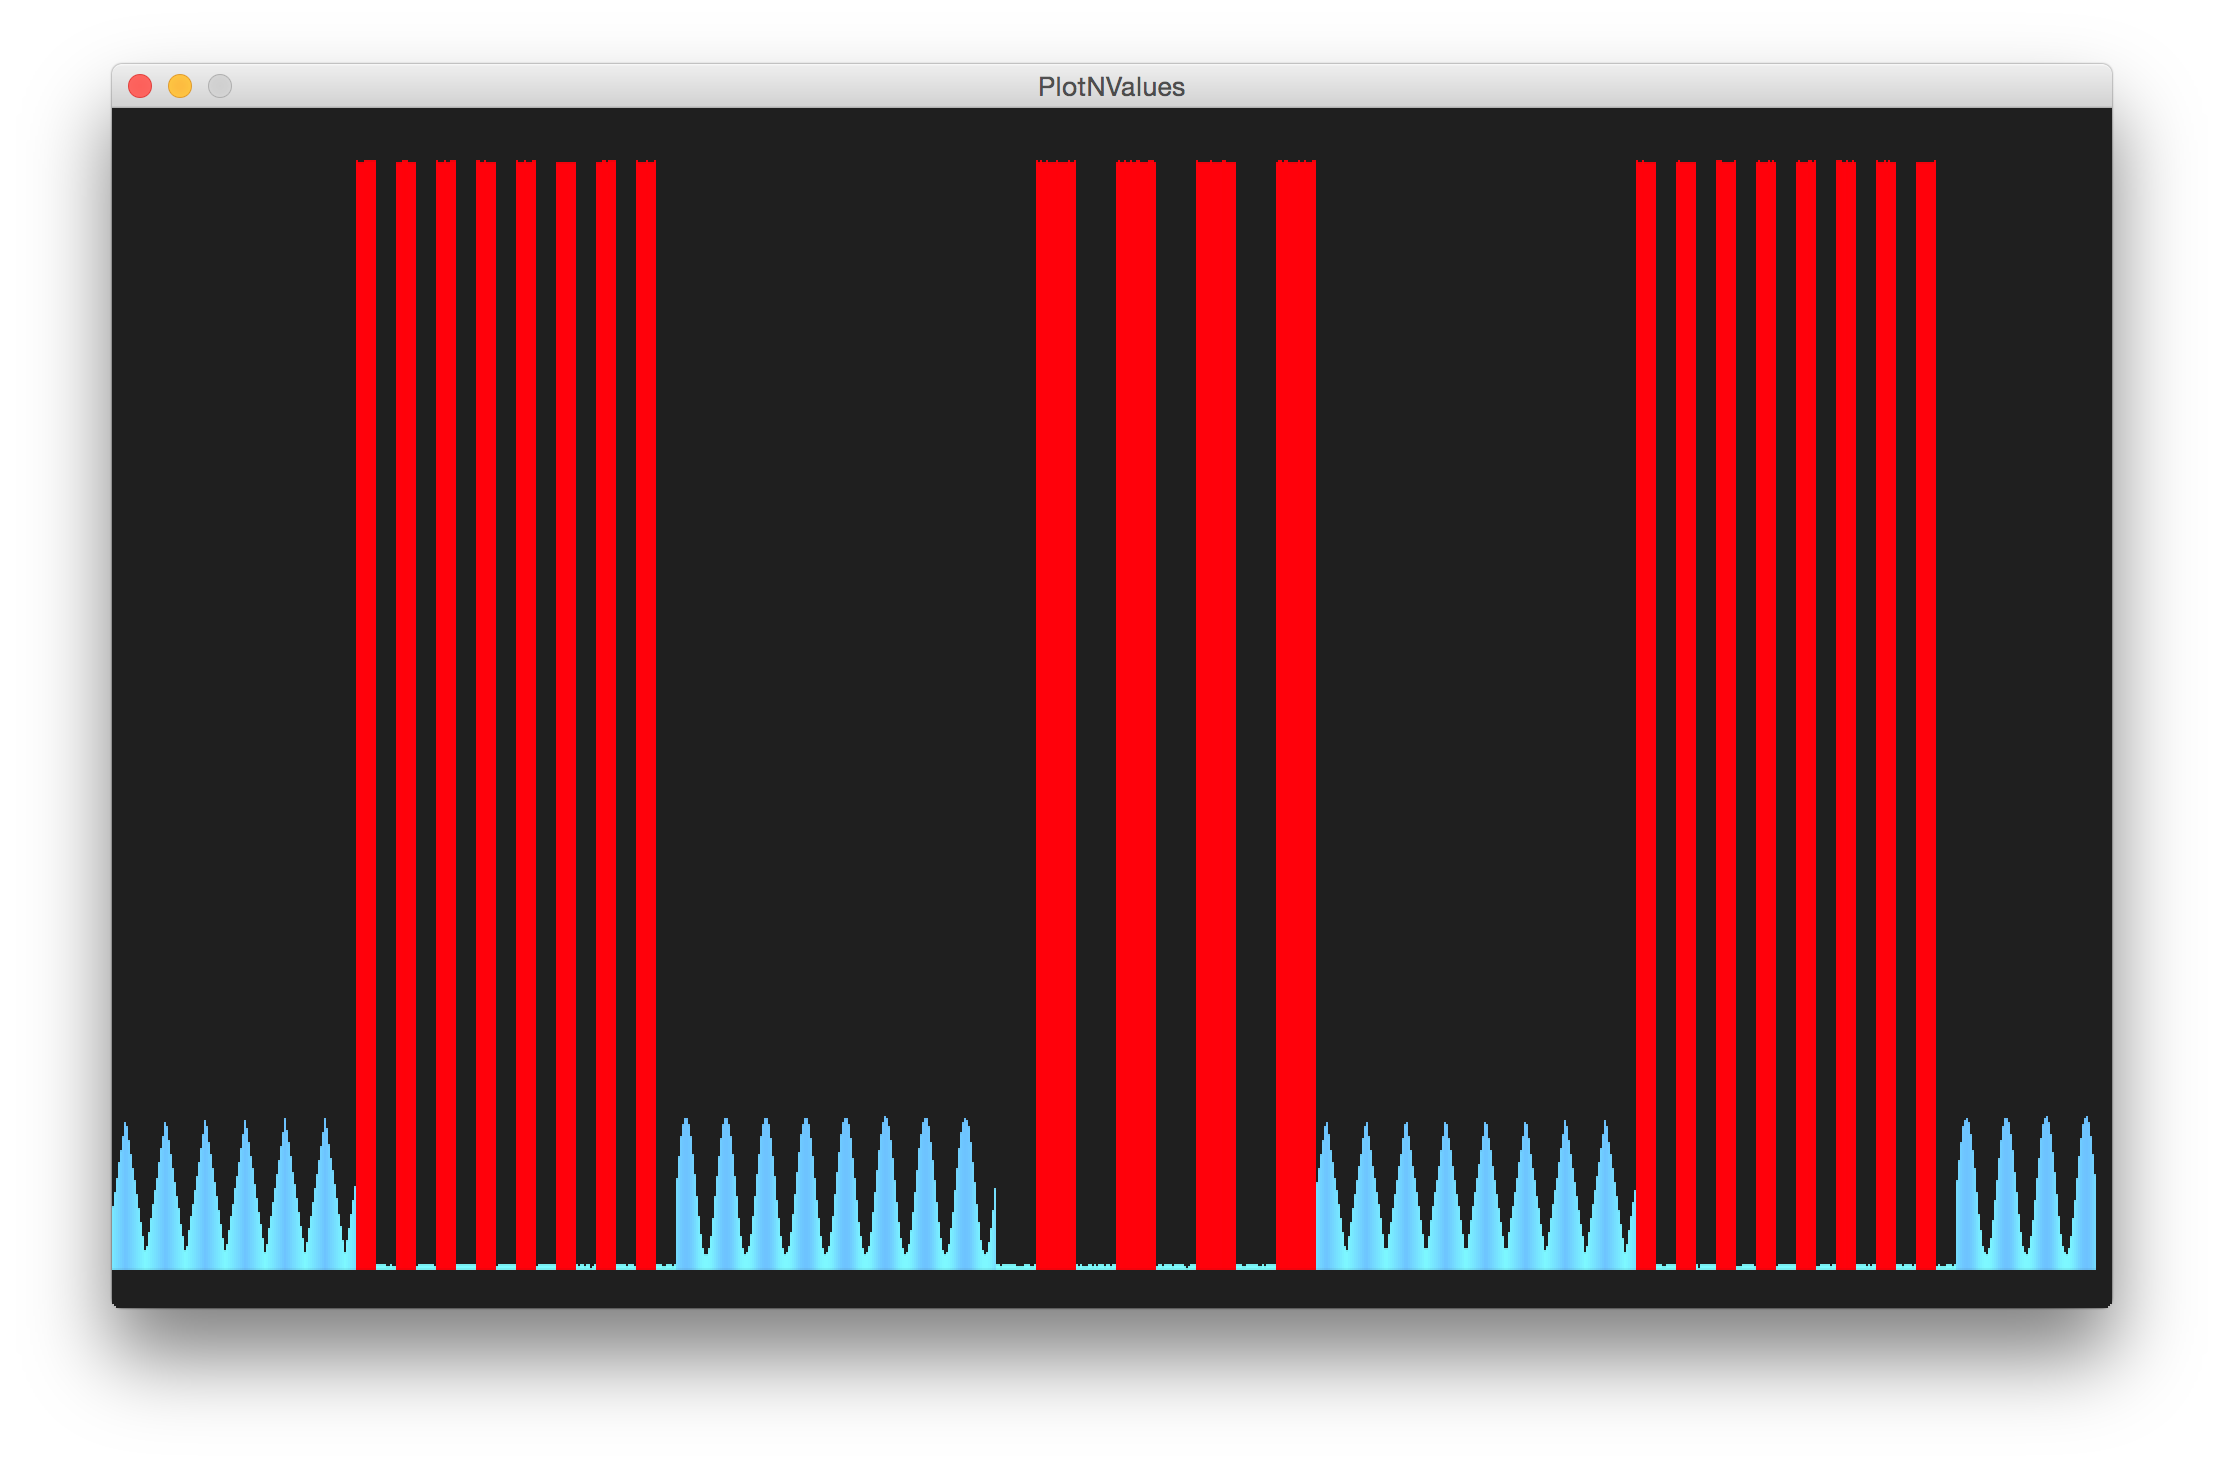
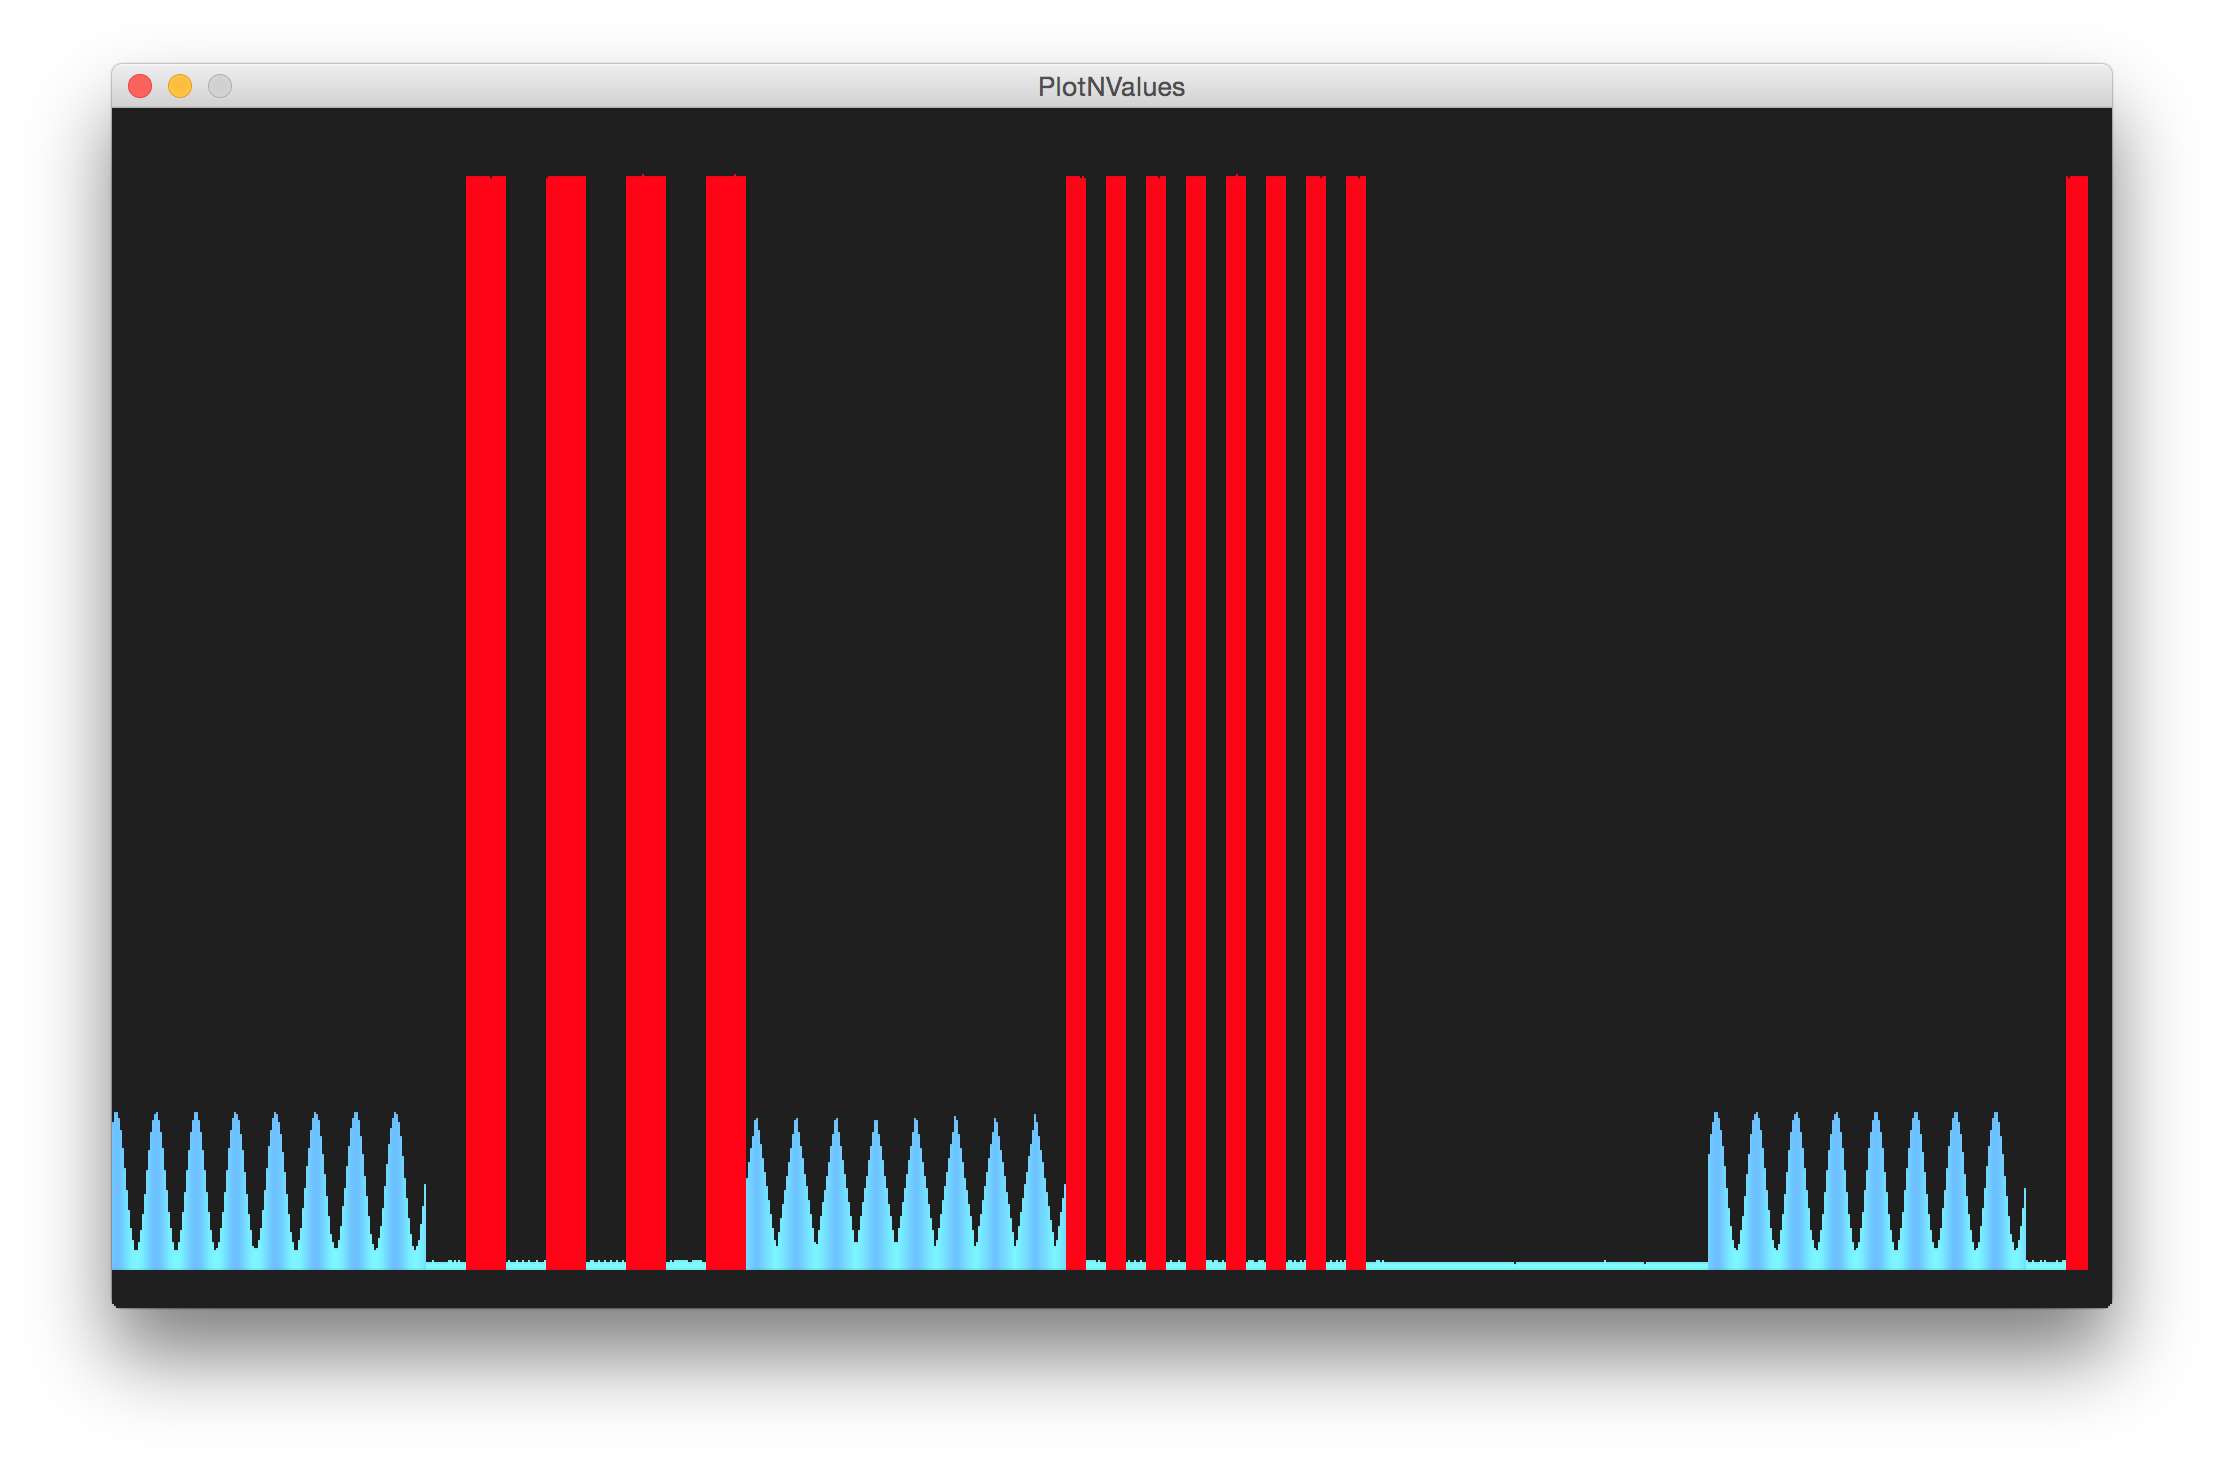
[AD9833/BasicDemoCycle] adda “off” step to the demo cycle and some more frequency measurements

Changed region(s): [[0.031, 0.092, 0.9618, 0.889]]

diff --git a/playground/AD9833/BasicDemoCycle/README.md b/playground/AD9833/BasicDemoCycle/README.md
@@ -2,7 +2,6 @@
 
 Run a basic waveform demo with an AD9833 module
 
-
 [:arrow_forward: return to the LEAP Catalog](http://leap.tardate.com)
 
 ## Notes
@@ -64,10 +63,11 @@ It is running at very low frequencies in order to produce a visual demo. It send
 [PlotNValues (a simple Processing sketch)](../../../processing/PlotNValues) reads the data from the serial port and plots the output value over time, with some coloration effects thrown in for good measure.
 
 Here's a sample trace. It shows a few cycles of each waveform. From the left:
-* triangle wave
-* square wave (halved cycle time i.e. twice as fast)
 * sine wave
 * square wave (normal cycle time)
+* triangle wave
+* square wave (halved cycle time i.e. twice as fast)
+* output off
 
 Note that square waves are rail-to-rail, since they bypass the DAC. Other waveforms peak at 0.65V per the datasheet.
 
@@ -77,7 +77,23 @@ Note that square waves are rail-to-rail, since they bypass the DAC. Other wavefo
 
 A few quick measurements with a frequency counter gave very good results under a few MHz.
 But when I started pushing into the 6-12.5MHz realm, accuracy appeared to drop off markedly.
-This might be a measurement issue; I'll have to take a closer look at that with some better test equipment.
+
+This may simply be the influence of running the module on a breadboard. I should try it on a PCB.
+
+For now, here are some results (AC-coupled scope traces) with a sinusoid waveform in the breadboard layout.
+
+At 1MHz, still a decent output:
+
+![scope_1MHz trace](./assets/scope_1MHz.gif?raw=true)
+
+By 8MHz, the waveform is quite distorted and unstable but still on frequency:
+
+![scope_8MHz trace](./assets/scope_8MHz.gif?raw=true)
+
+By 12MHz, it has devolved to a heavily-modulated mess:
+
+![scope_12MHz trace](./assets/scope_12MHz.gif?raw=true)
+
 
 ## Construction
 
@@ -93,6 +109,7 @@ Running at 300kHz, pretty accurate!
 ![The Build](./assets/BasicDemoCycle_build.jpg?raw=true)
 
 ## Credits and References
+* Thanks to Michaël via email for the idea of an "off" step in the demo cycle
 * [Module from a seller on aliexpress](http://www.aliexpress.com/item/E74-Free-Shipping-Programmable-Microprocessors-AD9833-Sine-Square-Wave-DDS-Signal-Generator-Module/32436878279.html)
 * [AD9833 datasheet](http://www.analog.com/en/products/rf-microwave/direct-digital-synthesis-modulators/ad9833.html)
 * [Arduino SPI Reference](https://www.arduino.cc/en/Reference/SPI)
